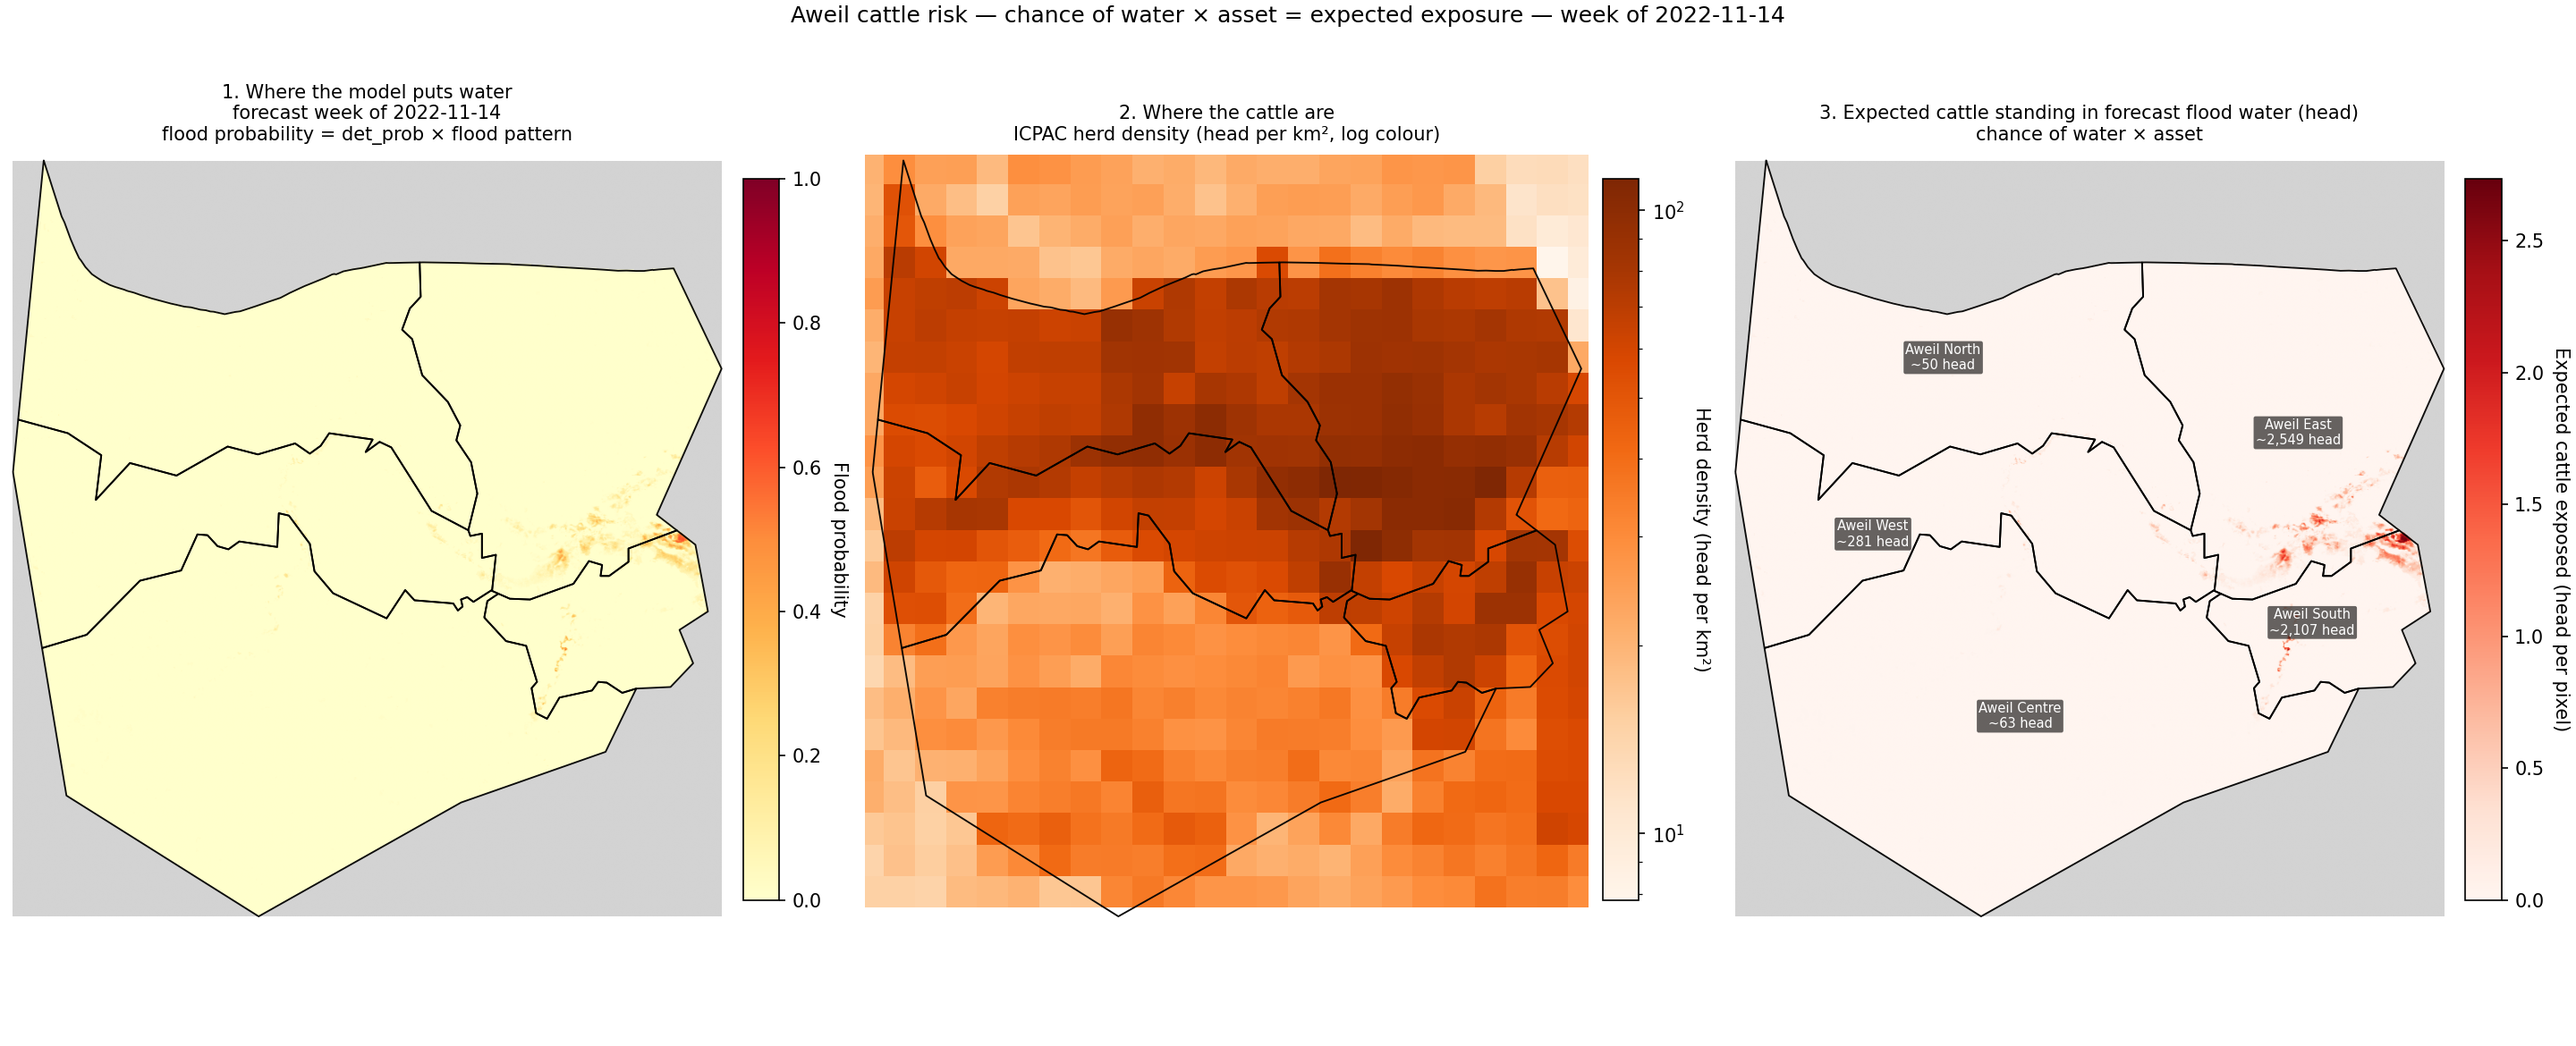
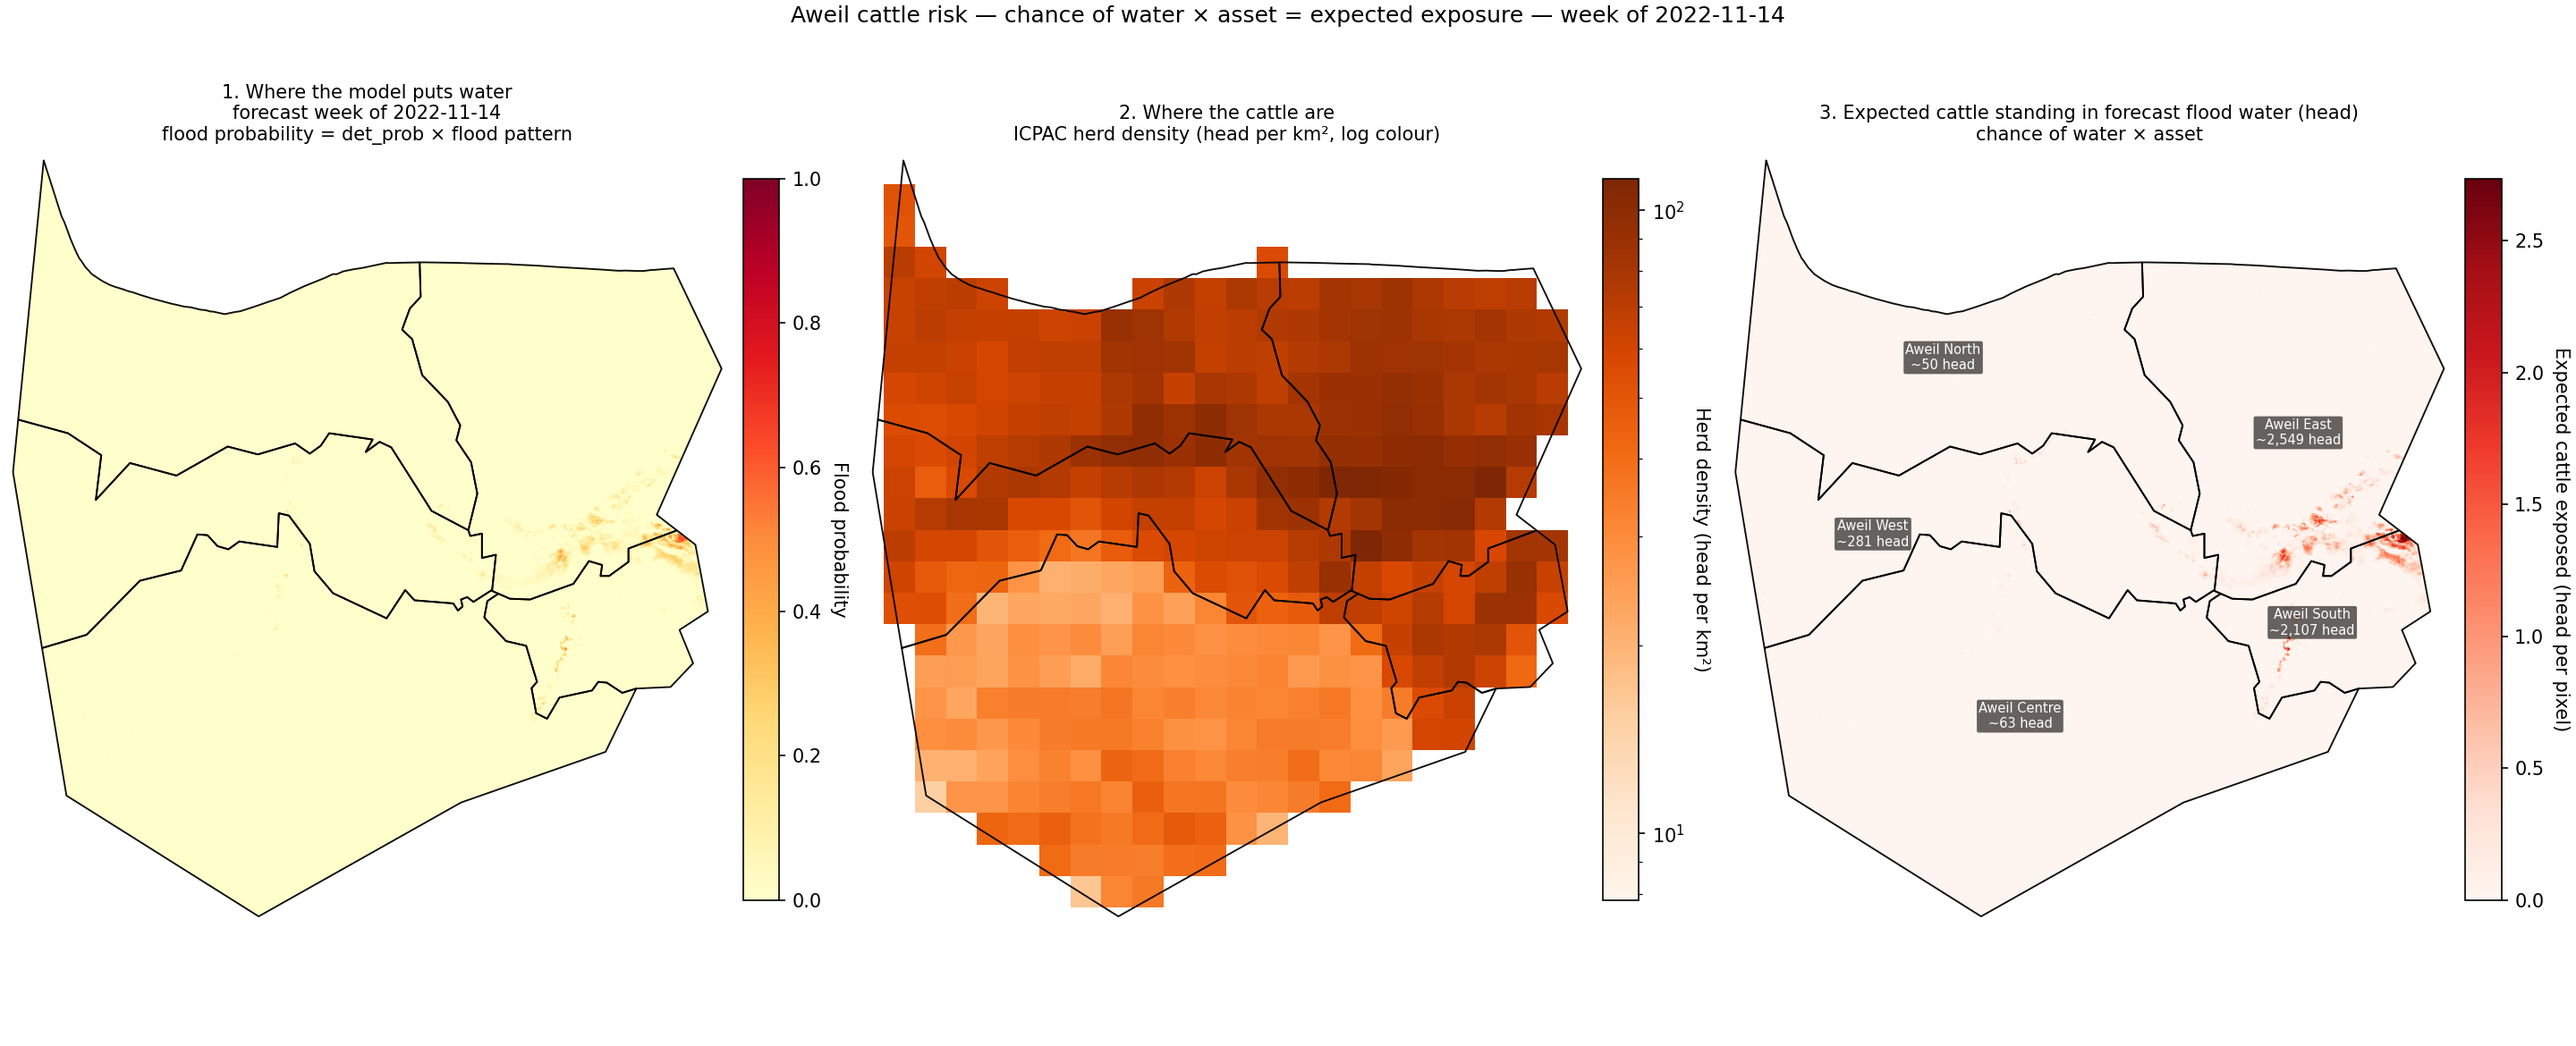
fix: removed background

diff --git a/risk_exposure/forecast_risk_map.py b/risk_exposure/forecast_risk_map.py
@@ -34,7 +34,8 @@ Outputs (per forecast week): one PNG per asset showing the three ingredients
 side by side — Level-2 flood probability | asset map | expected exposure for
 the forecast week (duration heads stay in the table) — plus
 ``forecast_risk_summary.csv`` (county x horizon expected exposures and
-shares of the mapped totals).
+shares of the mapped totals). The PNG background outside the Northern Bahr
+el Ghazal study region is transparent so the figures overlay cleanly.
 
 Run the synthetic-data checks with: python -m risk_exposure.check_forecast_risk_map
 """
@@ -49,7 +50,9 @@ import matplotlib.pyplot as plt
 import numpy as np
 import pandas as pd
 import rasterio
+from affine import Affine
 from matplotlib.colors import LogNorm
+from rasterio.features import rasterize
 from rasterio.windows import from_bounds
 
 from climatology_maps.forecast_maps import (
@@ -347,6 +350,23 @@ def _native_extent(layer: dict) -> tuple[float, float, float, float]:
     return left, left + transform.a * ncols, top + transform.e * nrows, top
 
 
+def _region_alpha(
+    boundaries: gpd.GeoDataFrame, transform: Affine, shape: tuple[int, int]
+) -> np.ndarray:
+    """1.0 inside the mapped county polygons, 0.0 outside.
+
+    A cell counts as inside when its centre falls in one of the polygons —
+    the same centre rule the exposure rasters use — so the alpha mask hugs
+    the drawn county outlines and everything outside the Northern Bahr el
+    Ghazal study region exports fully transparent.
+    """
+    inside = rasterize(
+        ((geometry, 1) for geometry in boundaries.geometry),
+        out_shape=shape, transform=transform, fill=0, dtype="uint8",
+    )
+    return np.where(inside == 1, 1.0, 0.0)
+
+
 def render_risk_figure(
     frame: pd.DataFrame,
     week: pd.Timestamp,
@@ -363,7 +383,9 @@ def render_risk_figure(
     the rule ``expected = chance of water x asset`` with all three
     ingredients. County labels on the right panel carry the county's
     expected total; where no forecast exists for a county its pixels stay
-    grey.
+    grey. Everything outside the mapped counties — the Northern Bahr el
+    Ghazal study region — is exported transparent (alpha 0, including the
+    figure canvas), so the PNG overlays on any background.
     """
     spec = ASSETS[asset]
     value_column = spec["column"]
@@ -381,12 +403,22 @@ def render_risk_figure(
     limits = (
         lons.min() - 0.02, lons.max() + 0.02, lats.min() - 0.02, lats.max() + 0.02,
     )
+    if boundaries is None:
+        grid_alpha = np.ones(matrix.shape)
+    else:
+        step_lon = (lons.max() - lons.min()) / max(len(lons) - 1, 1)
+        step_lat = (lats.max() - lats.min()) / max(len(lats) - 1, 1)
+        grid_transform = Affine(
+            step_lon, 0, float(lons.min()) - step_lon / 2,
+            0, step_lat, float(lats.min()) - step_lat / 2,
+        )
+        grid_alpha = _region_alpha(boundaries, grid_transform, matrix.shape)
 
     hazard_cmap = plt.get_cmap("YlOrRd").copy()
     hazard_cmap.set_bad("lightgrey")
     hazard_image = axes[0].imshow(
         matrix, extent=extent, origin="lower", cmap=hazard_cmap,
-        vmin=0.0, vmax=1.0, aspect="equal",
+        vmin=0.0, vmax=1.0, aspect="equal", alpha=grid_alpha,
     )
     axes[0].set_title(
         f"1. Where the model puts water\nforecast week of {week.date()}\n"
@@ -401,6 +433,12 @@ def render_risk_figure(
     asset_cmap.set_bad("lightgrey")
     asset_data = np.ma.masked_invalid(layer["data"])
     left, right, bottom, top = _native_extent(layer)
+    if boundaries is None:
+        asset_alpha = np.ones(asset_data.shape)
+    else:
+        asset_alpha = _region_alpha(
+            boundaries, layer["transform"], layer["data"].shape
+        )
     if asset == "cattle":
         transform = layer["transform"]
         centre_lat = transform.f + (np.arange(asset_data.shape[0]) + 0.5) * transform.e
@@ -414,11 +452,13 @@ def render_risk_figure(
         asset_image = axes[1].imshow(
             asset_data, extent=(left, right, bottom, top), origin="upper",
             cmap=asset_cmap, norm=LogNorm(vmin=vmin, vmax=vmax), aspect="equal",
+            alpha=asset_alpha,
         )
     else:
         asset_image = axes[1].imshow(
             asset_data, extent=(left, right, bottom, top), origin="upper",
             cmap=asset_cmap, vmin=0.0, vmax=100.0, aspect="equal",
+            alpha=asset_alpha,
         )
     axes[1].set_title(
         f"2. {spec['asset_title']}\n{spec['asset_subtitle']}", fontsize=10, pad=8
@@ -433,7 +473,7 @@ def render_risk_figure(
     vmax = float(frame[value_column].max()) or 1.0
     value_image = axes[2].imshow(
         value_matrix, extent=extent, origin="lower", cmap=value_cmap,
-        vmin=0.0, vmax=vmax, aspect="equal",
+        vmin=0.0, vmax=vmax, aspect="equal", alpha=grid_alpha,
     )
     axes[2].set_title(
         f"3. {spec['figure']}\nchance of water × asset", fontsize=10, pad=8
@@ -471,7 +511,7 @@ def render_risk_figure(
     )
     out_path = Path(out_path)
     out_path.parent.mkdir(parents=True, exist_ok=True)
-    figure.savefig(out_path, dpi=150)
+    figure.savefig(out_path, dpi=150, transparent=boundaries is not None)
     plt.close(figure)
     return out_path
 

diff --git a/risk_exposure/check_forecast_risk_map.py b/risk_exposure/check_forecast_risk_map.py
@@ -7,7 +7,9 @@ same footprint), the cattle expectation (density x pixel area, with the
 prob=1 ceiling reproducing the mapped herd exactly), the crop mask-cell rule
 (max pixel probability, count-once, prob x area allocation back to pixels),
 the summary table (target weeks, prob heads, percentages, behaviour without
-duration heads) and that the renderer writes PNGs.
+duration heads), the region-alpha mask that cuts the PNG background to the
+mapped counties, and that the renderer writes PNGs whose background outside
+those counties is transparent.
 """
 
 from __future__ import annotations
@@ -21,6 +23,7 @@ import numpy as np
 import pandas as pd
 import rasterio
 from affine import Affine
+from PIL import Image
 from shapely.geometry import box
 
 matplotlib.use("Agg")
@@ -34,6 +37,7 @@ from risk_exposure.forecast_risk_map import (
     select_weeks,
     summarise_week,
     week_frames,
+    _region_alpha,
 )
 
 WEEK = pd.Timestamp("2024-10-07")
@@ -320,6 +324,30 @@ def check_summary_table() -> None:
         assert (summary["horizon"] == 0).all()
 
 
+def check_region_alpha() -> None:
+    boundaries = _synthetic_boundaries()
+    # Pivot-style grid (origin "lower"): cell centres at 0.01 deg steps,
+    # all inside the two county boxes -> fully opaque.
+    lons = np.array([27.005, 27.015, 27.025, 27.035, 27.045])
+    step = 0.01
+    transform = Affine(step, 0, lons[0] - step / 2, 0, step, 9.5)
+    alpha = _region_alpha(boundaries, transform, (5, len(lons)))
+    assert alpha.shape == (5, len(lons)) and alpha.min() == 1.0
+    # Centres north of both boxes map to alpha 0 (transparent background).
+    north = Affine(step, 0, lons[0] - step / 2, 0, step, 9.6)
+    alpha = _region_alpha(boundaries, north, (2, len(lons)))
+    assert alpha.max() == 0.0
+    # Native raster transform (origin "upper", e < 0), the cattle-cell grid:
+    # the centre rule decides cell by cell.
+    cattle_transform = Affine(CATTLE_STEP, 0, 26.9, 0, -CATTLE_STEP, 9.6)
+    alpha = _region_alpha(boundaries, cattle_transform, (4, 8))
+    assert alpha[1, 2] == 1.0   # (27.025, 9.525) inside Alpha
+    assert alpha[1, 3] == 1.0   # (27.075, 9.525) inside Beta
+    assert alpha[1, 0] == 0.0   # (26.925, 9.525) west of both
+    assert alpha[0, 2] == 0.0   # (27.025, 9.575) north of both
+    assert alpha[2, 2] == 0.0   # (27.025, 9.475) south of both
+
+
 def check_select_weeks() -> None:
     weeks = [WEEK, WEEK + pd.Timedelta(weeks=1), WEEK + pd.Timedelta(weeks=2)]
     frames = []
@@ -360,6 +388,14 @@ def check_end_to_end() -> None:
         }
         for path in figures:
             assert path.stat().st_size > 0
+        # The renderer exports the background outside the mapped counties
+        # (here the two synthetic boxes) fully transparent; drawn content
+        # stays opaque.
+        with Image.open(figures[0]) as image:
+            assert image.mode == "RGBA"
+            alpha_band = np.asarray(image)[..., 3]
+        assert (alpha_band == 0).any()
+        assert (alpha_band == 255).any()
         table = pd.read_csv(tmp_path / "summary.csv")
         assert len(table) == 6
         row = table[(table["county"] == "Alpha") & (table["horizon"] == 0)].iloc[0]
@@ -387,6 +423,7 @@ def main() -> None:
         check_week_frames_uniform_signature,
         check_concentrated_signature_and_ceiling,
         check_summary_table,
+        check_region_alpha,
         check_select_weeks,
         check_end_to_end,
     ]
